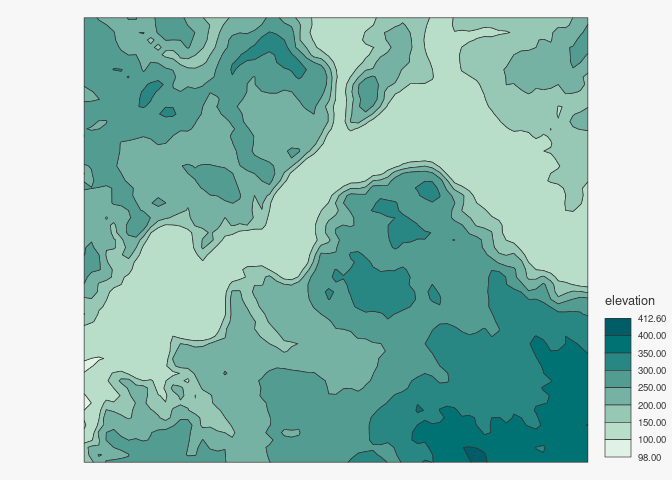
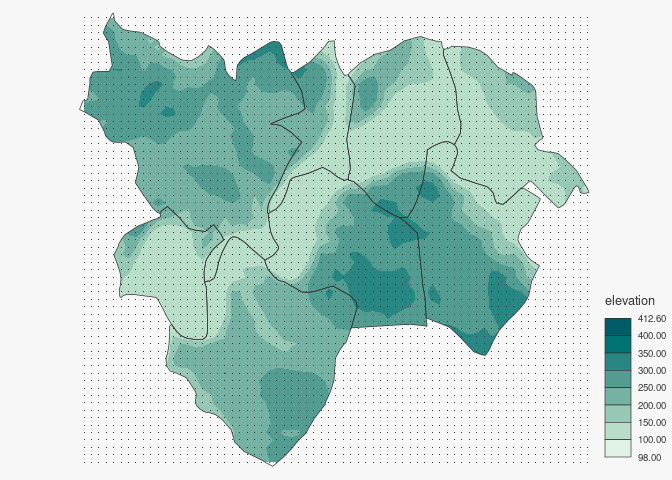
docs: update README

diff --git a/README.md b/README.md
@@ -8,20 +8,23 @@
 [![Project Status: Active – The project has reached a stable, usable
 state and is being actively
 developed.](https://www.repostatus.org/badges/latest/active.svg)](https://www.repostatus.org/#active)
-[![R-CMD-check](https://github.com/rCarto/mapiso/actions/workflows/R-CMD-check.yaml/badge.svg)](https://github.com/rCarto/mapiso/actions/workflows/R-CMD-check.yaml)
+[![R-CMD-check](https://github.com/riatelab/mapiso/actions/workflows/R-CMD-check.yaml/badge.svg)](https://github.com/riatelab/mapiso/actions/workflows/R-CMD-check.yaml)
 [![Codecov test
-coverage](https://codecov.io/gh/rCarto/mapiso/branch/main/graph/badge.svg)](https://app.codecov.io/gh/rCarto/mapiso?branch=main)
+coverage](https://codecov.io/gh/riatelab/mapiso/branch/main/graph/badge.svg)](https://app.codecov.io/gh/riatelab/mapiso?branch=main)
 <!-- badges: end -->
 
-The goal of `mapiso` is to create isopleth polygon sf object from raster
-or regular grids.
+The goal of `mapiso` is to ease the transformation of regularly spaced
+grids containing continuous data into contour polygons. These grids can
+be defined by data.frames (x, y, value), `sf` objects or SpatRasters
+from `terra`.  
+`mapsio` is a wrapper around [`isoband`](https://wilkelab.org/isoband/).
 
 ## Installation
 
 You can install the development version of `mapiso` from GitHub with:
 
 ``` r
-remotes::install_github("rcarto/mapiso")
+remotes::install_github("riatelab/mapiso")
 ```
 
 ## Usage
@@ -33,7 +36,7 @@ library(mapiso)
 library(terra)
 #> terra 1.5.34
 library(mapsf)
-r <- rast("inst/tif/elevation.tif")
+r <- rast(system.file("tif/elevation.tif", package = "mapiso"))
 isor <- mapiso(x = r)
 mf_theme(mar = c(0, 0, 0, 0))
 mf_raster(r)
@@ -49,10 +52,20 @@ library(mapiso)
 library(sf)
 #> Linking to GEOS 3.9.0, GDAL 3.2.2, PROJ 7.2.1; sf_use_s2() is TRUE
 library(mapsf)
-s <- st_read("inst/gpkg/elevation.gpkg", quiet = TRUE)
+# gridded data
+s <- st_read(system.file("gpkg/elevation.gpkg", package = "mapiso"), 
+             layer = "elevation", quiet = TRUE)
+# mask
+m <- st_read(system.file("gpkg/elevation.gpkg", package = "mapiso"),
+             layer = "com", quiet = TRUE)
+# custom breaks
 bks <-c(98,100, 150, 200, 250, 300, 350, 400, 412.6) 
-isos <- mapiso(x = s, var = "elevation", breaks = bks)
-mf_map(isos, "isomin", "choro", breaks = bks, leg_title = "elevation")
+isos <- mapiso(x = s, var = "elevation", breaks = bks, mask = m)
+mf_map(isos, "isomin", "choro", 
+       breaks = bks, border = NA, 
+       leg_title = "elevation")
+mf_map(m, col = NA, add = TRUE)
+mf_map(s, cex = 1, pch = ".", col = "grey20", add = TRUE)
 ```
 
 <img src="man/figures/README-sf-1.png" width="80%" />
@@ -62,7 +75,7 @@ mf_map(isos, "isomin", "choro", breaks = bks, leg_title = "elevation")
 ``` r
 library(mapiso)
 library(mapsf)
-d <- read.csv("inst/csv/elevation.csv")
+d <- read.csv(system.file("csv/elevation.csv", package = "mapiso"))
 head(d)
 #>          x       y elevation
 #> 1 586231.3 6431677  282.0299
@@ -81,8 +94,8 @@ mf_map(isod, "isomin", "choro", breaks = bks, leg_title = "elevation")
 ## Community Guidelines
 
 One can contribute to the package through [pull
-requests](https://github.com/rcarto/mapiso) and report issues or ask
-questions [here](https://github.com/rcarto/mapiso/issues).  
+requests](https://github.com/riatelab/mapiso) and report issues or ask
+questions [here](https://github.com/riatelab/mapiso/issues).  
 This project uses [conventional
 commits](https://www.conventionalcommits.org/en/v1.0.0-beta.3/) and
 [semantic versioning](https://semver.org/).
